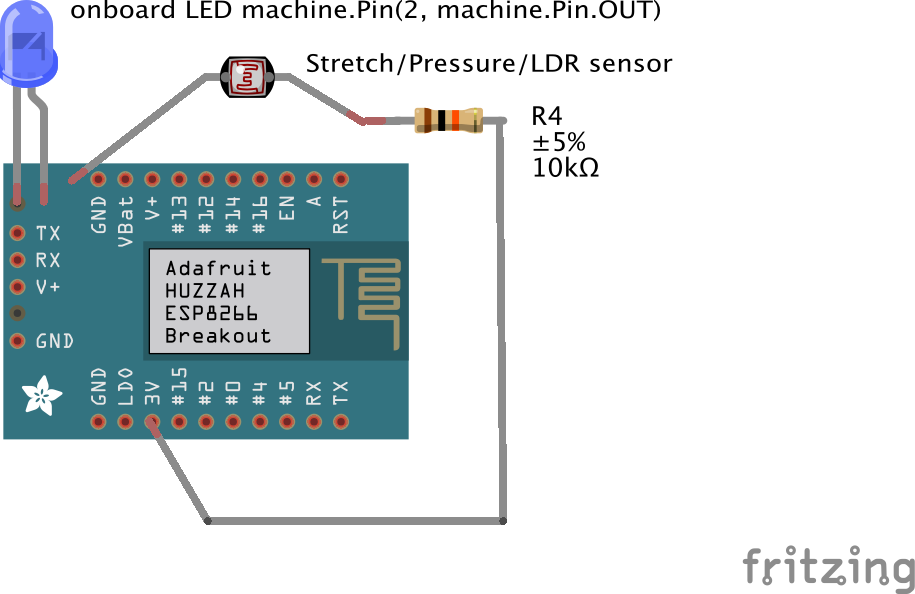
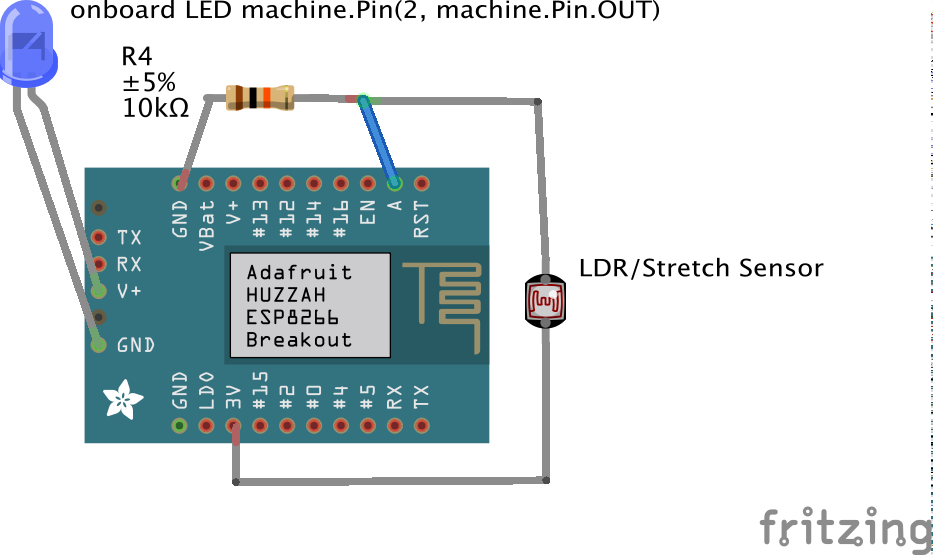
image and order fix

diff --git a/README.md b/README.md
@@ -2,7 +2,7 @@
 
 Learn basics of wearable technology with microbits, sensors, Processing, simple electronics
 
-This is a workshop in progress, open to help from @jackie1050 and @Laura_pullig
+This is a workshop in progress, open to help from @jackie1050 and @Laurapullig
 
 ### Structure
 I think now the structure of the workshop could be:
@@ -155,9 +155,18 @@ Resistor 100k Ohm|1||ShrimpingIt surplus|China
 
 ### Session 2c
 
+![Skill Covered](https://img.shields.io/badge/skill-python-black.svg?longCache=true&style=plastic)
+![Skill Covered](https://img.shields.io/badge/skill-screen-blue.svg?longCache=true&style=plastic)
+![Skill Covered](https://img.shields.io/badge/skill-terminals-lightblue.svg?longCache=true&style=plastic)
+![Skill Covered](https://img.shields.io/badge/skill-esp8266-gold.svg?longCache=true&style=plastic)
+
+Flash LEDs in response to our sensors
+
+<img src="images/ESP8266-Schem-Fritzing.png" width="600">
+
 #### Micropython and the ESP8266
 
-We're using the [ESP8266](#) ESP-12 WeMos D1 Mini Development Board which is like a cheap version of a microbit.
+We're using the a few variant breakout boards of the ESP8266 like the WeMos D1 Mini Development Board in the diagram above or the bigger [ESP-12E-CP2102](https://www.ebay.co.uk/itm/Esp8266-Esp-12E-Cp2102-Wifi-Network-Development-Board-Module-For-Node-Mcu-GD/264530529453) variant which is like a cheap version of a microbit.
 
 You can refer to the [MicroPython tutorial for ESP8266](https://docs.micropython.org/en/latest/esp8266/tutorial/index.html#micropython-tutorial-for-esp8266) for full details, but we've selected.
 
@@ -183,14 +192,6 @@ Then press enter and you'll see the python prompt. You are now connected to your
 
 ### Micropython Command Walkthrough
 
-![Skill Covered](https://img.shields.io/badge/skill-python-black.svg?longCache=true&style=plastic)
-![Skill Covered](https://img.shields.io/badge/skill-screen-blue.svg?longCache=true&style=plastic)
-![Skill Covered](https://img.shields.io/badge/skill-terminals-lightblue.svg?longCache=true&style=plastic)
-![Skill Covered](https://img.shields.io/badge/skill-esp8266-gold.svg?longCache=true&style=plastic)
-
-Flash LEDs in response to our sensors
-
-<img src="images/ESP8266-Schem-Fritzing.png" width="600">
 
 
 In python like we saw earlier, we import the tools we need to do the various things we need, with microbit, most of it is already there.
